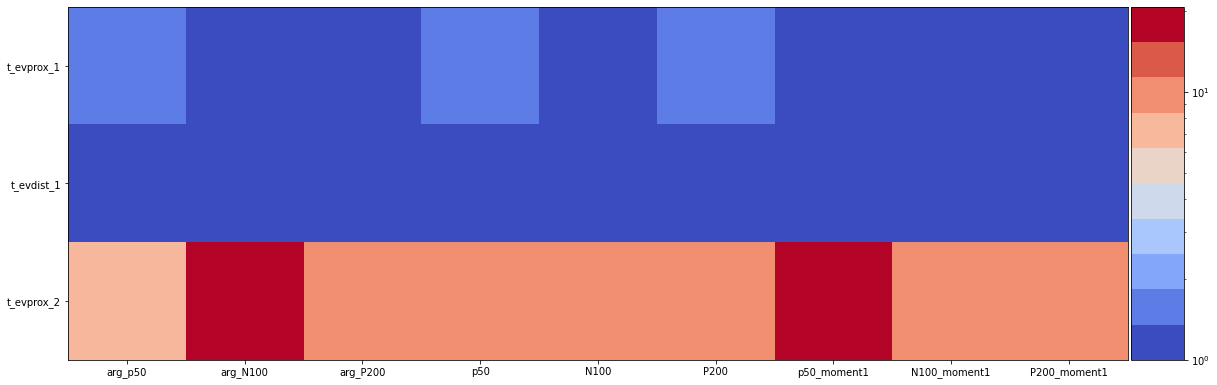
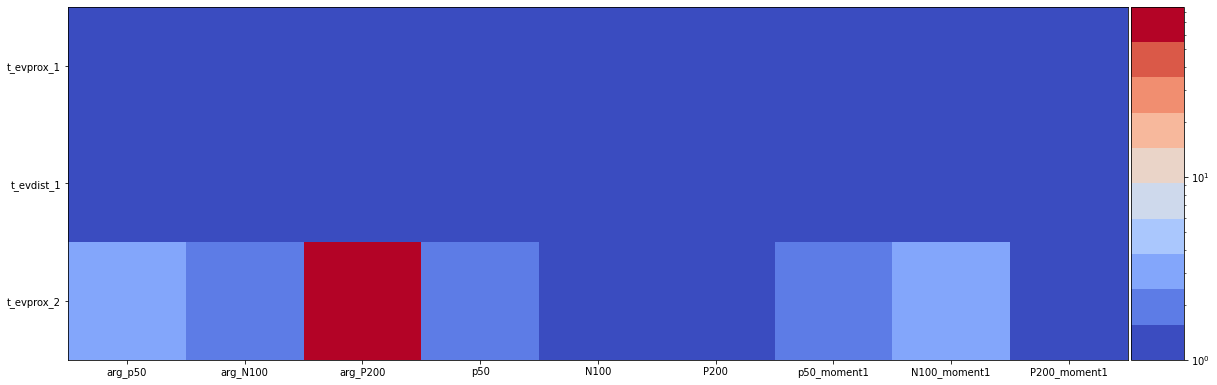
investigating summary features py file

diff --git a/code/investigating_summary_features.py b/code/investigating_summary_features.py
@@ -22,6 +22,8 @@ import matplotlib.pyplot as plt
 
 from utils.plot import cov, compare_vars, plot_varchanges
 
+from utils.plot import plot_KLs
+
 # sbi
 from sbi import utils as utils
 from sbi import analysis as analysis
@@ -232,7 +234,7 @@ def main(argv):
         
         sample_batch_18.append(sample21_list)
 
-    sum_stats_names = [
+    sum_stats_names18 = [
                     'arg_p50',
                     'arg_N100',
                     'arg_P200',
@@ -257,9 +259,51 @@ def main(argv):
 
         
     plt.figure(figsize = (20,40))
-    im = plot_varchanges(sample_batch_18, samples_number18, xticklabels=sum_stats_names, yticklabels=["t_evprox_1", "t_evdist_1", "t_evprox_2"], plot_label='', batchsize=0)
+    im = plot_varchanges(sample_batch_18, samples_number18, xticklabels=sum_stats_names18, yticklabels=["t_evprox_1", "t_evdist_1", "t_evprox_2"], plot_label='', batchsize=0)
 
     file_writer.save_fig(im, 'var_changes18')
+
+
+
+    fig, axes = plt.subplots(1, 1, figsize=(30, 10), sharex=True)
+
+
+    plot_KLs(sample_batch_18,
+            samples_number18,
+            idx=0,
+            batchsize=10,
+            kind='box',
+            agg_with='mean'
+        )
+
+
+    axes.set_xlabel("missing feature", size=14)
+    axes.set_xticklabels(sum_stats_names18)
+    axes.tick_params(axis="both", which="major", labelsize=12)
+    ylabel = axes.get_ylabel()
+    axes.set_ylabel(ylabel, size=14)
+
+    file_writer.save_fig(fig, 'KL_18_features')
+
+    fig, axes = plt.subplots(1, 1, figsize=(30, 10), sharex=True)
+
+
+    plot_KLs(sample_batch_21,
+            samples_number21,
+            idx=0,
+            batchsize=10,
+            kind='box',
+            agg_with='mean'
+        )
+
+
+    axes.set_xlabel("missing feature", size=14)
+    axes.set_xticklabels(sum_stats_names)
+    axes.tick_params(axis="both", which="major", labelsize=12)
+    ylabel = axes.get_ylabel()
+    axes.set_ylabel(ylabel, size=14)
+
+    file_writer.save_fig(fig, 'KL_21_features')
 
 if __name__ == "__main__":
     main(sys.argv[1:])
